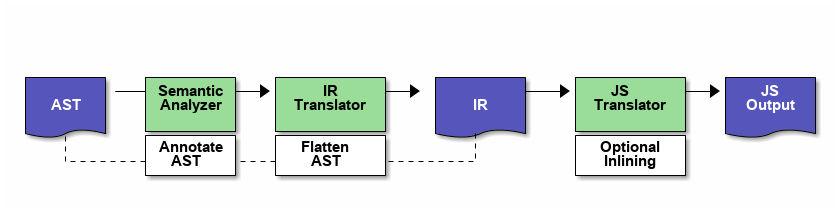
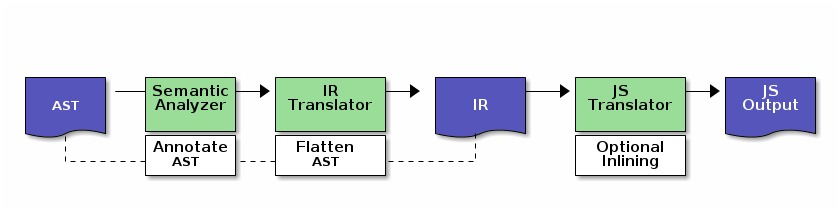
better fonts

diff --git a/css/site.css b/css/site.css
@@ -4,8 +4,10 @@
   width: 900px;
 }
 body {
-  font-family: "Open Sans", Helvetica, Arial, sans;
+  font-family: Georgia, sans-serif;
   line-height: 1.5;
+  letter-spacing: 0.01rem;
+  font-size: 20px;
   background: #fff;
   color: #444444;
 }
@@ -37,15 +39,15 @@ body h2 {
   font-size: 32px;
 }
 body h3 {
-  font-size: 18px;
+  font-size: 24px;
 }
 body a {
   text-decoration: none;
-  color: #31576b;
+  color: #0e958b;
   text-decoration: underline;
 }
 body a:hover {
-  color: #111e25;
+  color: #053834;
 }
 body pre {
   background: white;
@@ -56,6 +58,9 @@ body code {
   padding: 2px 4px;
   color: #444444;
 }
+body li {
+  list-style: circle;
+}
 body img {
   border: 1px solid #ccc;
   max-width: 600px;
@@ -65,7 +70,7 @@ body .tag {
   font-size: 0.6em;
 }
 body .tag span {
-  background: #31576b;
+  background: #0e958b;
   color: white;
   padding: 2px 5px;
   border-radius: 4px;
@@ -103,7 +108,7 @@ body #postamble {
   color: #aaa;
 }
 body #postamble a {
-  color: #5290b0;
+  color: #1feadb;
 }
 body .intro {
   padding: 20px 0px;
